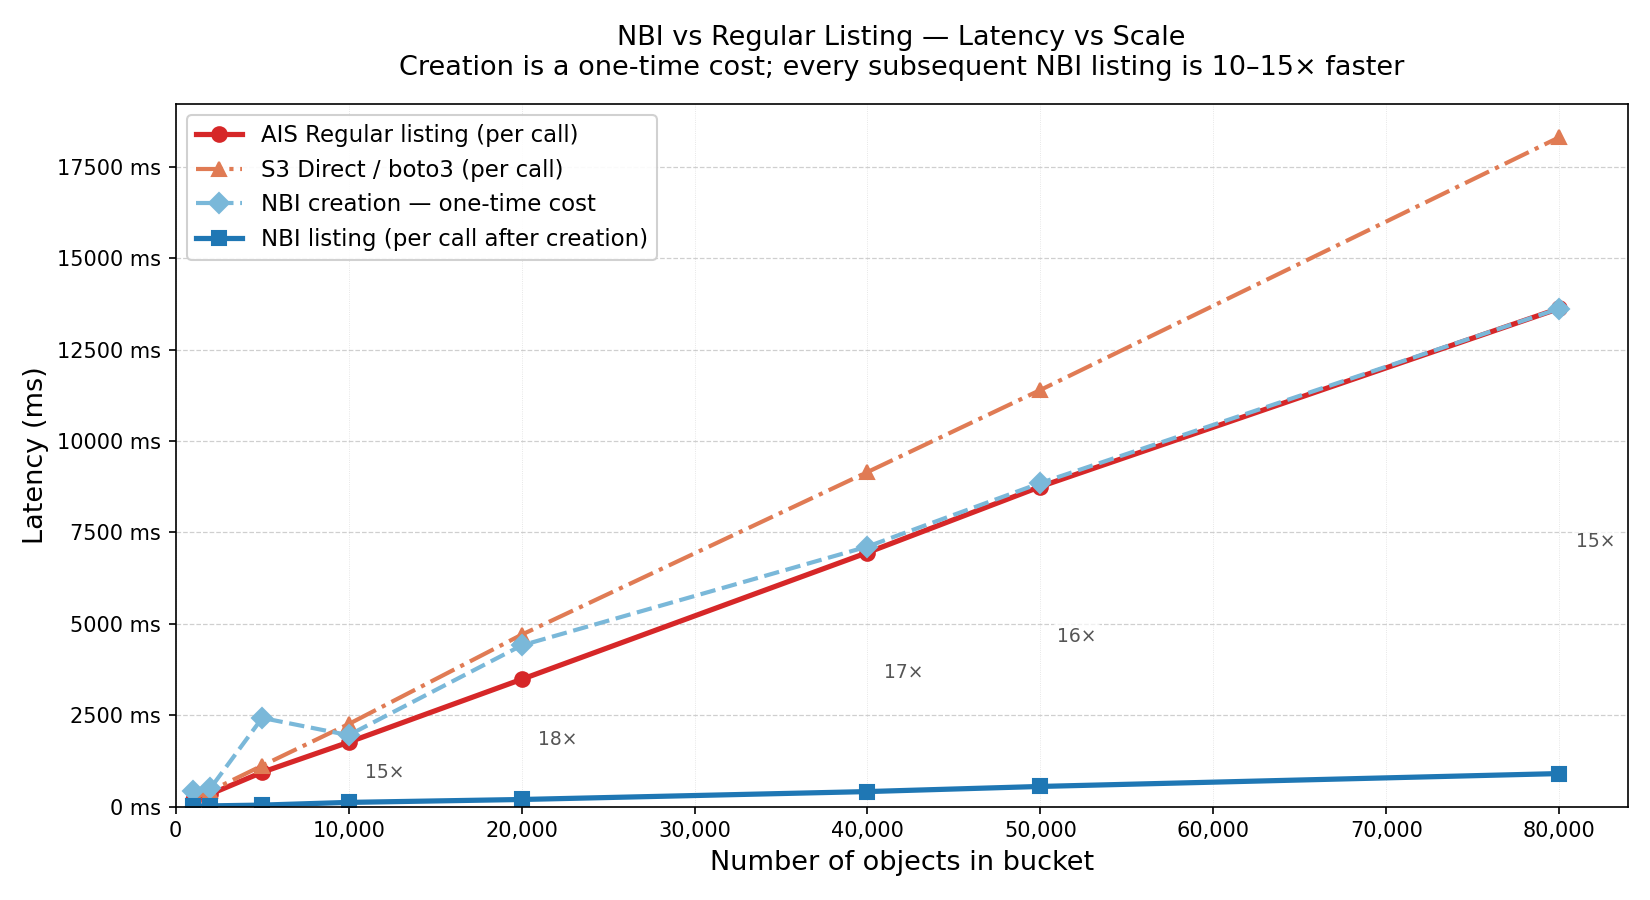
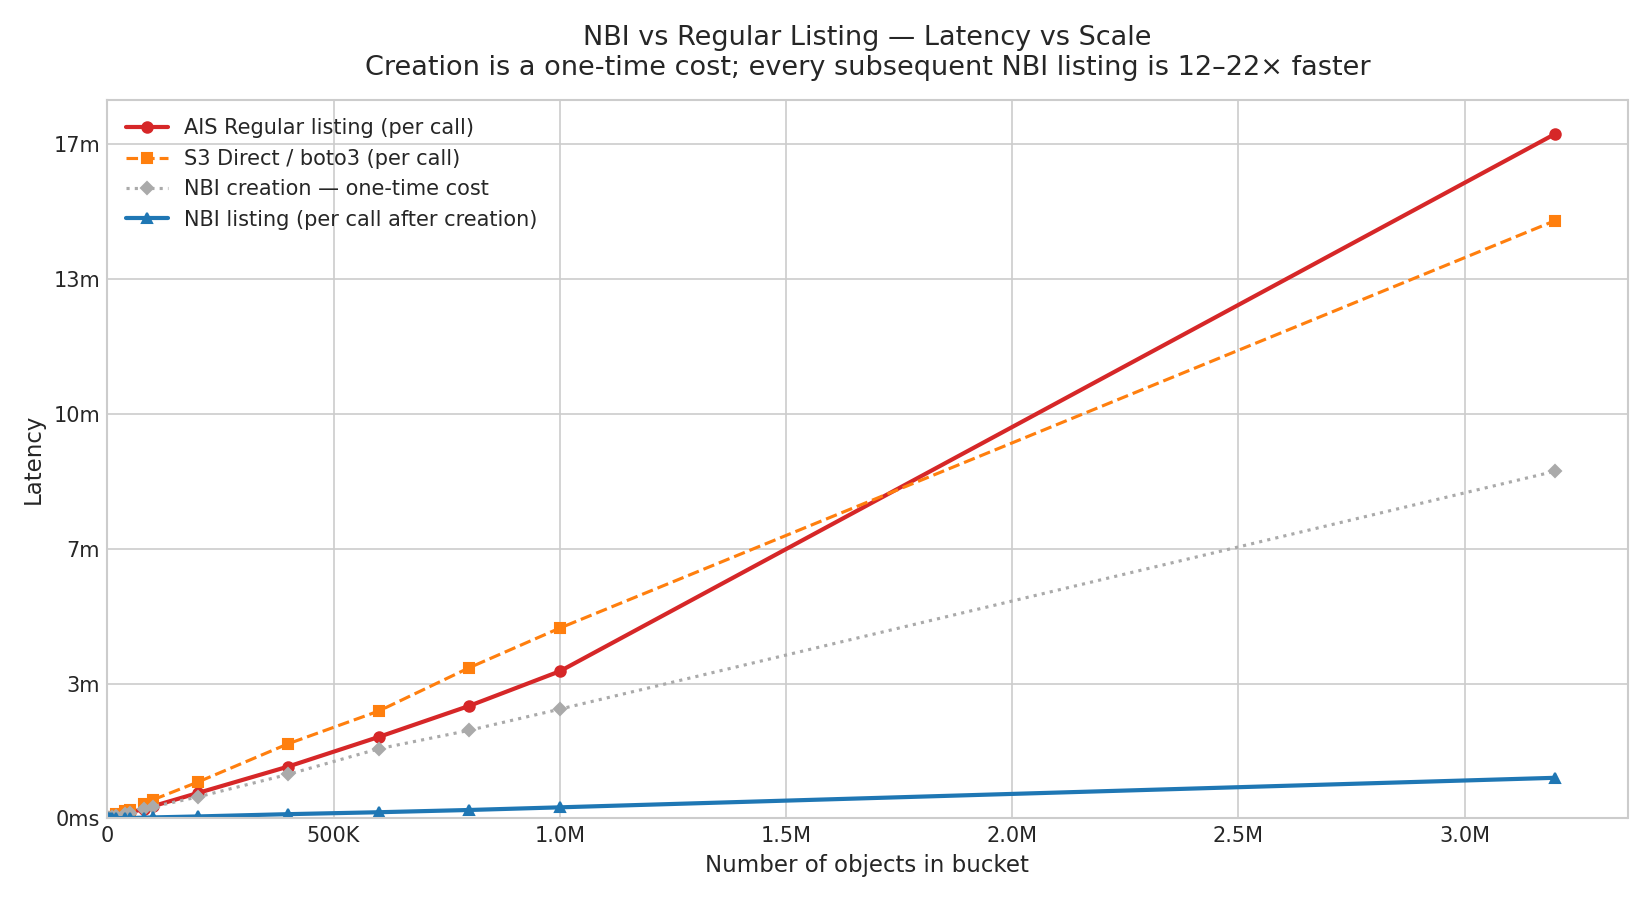
blog: native bucket inventory blog

diff --git a/docs/_posts/2026-04-06-native-bucket-inventory.md b/docs/_posts/2026-04-06-native-bucket-inventory.md
@@ -1,0 +1,154 @@
+---
+layout: post
+title: "Native Bucket Inventory: Up to 17x Faster Remote Bucket Listing"
+date: Apr 6, 2026
+author: Tony Chen, Abhishek Gaikwad
+categories: aistore nbi benchmark optimization
+---
+
+AIStore 4.3 introduces Native Bucket Inventory (NBI), a new mechanism for accelerating large remote-bucket listings by turning a repeatedly expensive operation into a local, reusable metadata path. Instead of traversing a remote bucket on every `ais ls`, AIS can precompute the bucket inventory once, persist it as compact binary chunks in the cluster, and answer subsequent listing requests directly from that local snapshot.
+
+In our benchmarks, NBI delivers roughly **15x to 17x speedup** for repeated listing of an `s3://` bucket with 3.2 million objects, highlighting how effective a precomputed local snapshot can be for large datasets. In this post, we walk through the design of NBI, the internal create and list workflows, the benchmark results, and how to use it from the AIStore Python SDK and CLI.
+
+### Table of Contents
+
+- [Motivation](#motivation)
+- [Workflow](#workflow)
+- [Usage](#usage)
+- [Benchmark](#benchmark)
+- [Current Limitations](#current-limitations)
+- [When to Use NBI (and When Not To)](#when-to-use-nbi-and-when-not-to)
+- [Conclusion](#conclusion)
+- [References](#references)
+
+## Motivation
+
+Remote bucket listing becomes expensive when the bucket is both large and repeatedly accessed. A full listing requires AIS to retrieve and assemble a large volume of object metadata from the backend before it can return a complete result to the client. When that bucket is relatively stable and listed again and again, the system ends up redoing essentially the same work each time, even though the contents change very little between requests.
+
+The core issue is that the object metadata returned by listing is often reusable, but the system keeps rebuilding it from scratch. The larger the bucket, the more bandwidth, latency, and backend API work AIS must spend to reconstruct information it has effectively already seen.
+
+NBI addresses that mismatch by treating the bucket listing results as cacheable metadata. Instead of rebuilding the full listing on every request, AIS captures it once, stores it locally in a compact form, and reuses that snapshot for subsequent listings.
+
+> While our benchmarks use S3, NBI is backend-agnostic and works identically with any remote backend — AWS S3, Google Cloud Storage, Azure Blob, OCI Object Storage, and remote AIS clusters.
+
+## Workflow
+
+NBI runs in two phases: **creation** and **listing**.
+
+### Creation
+
+When the user requests inventory creation, the [proxy](https://github.com/NVIDIA/aistore/blob/main/docs/terminology.md#proxy) distributes the job to all [targets](https://github.com/NVIDIA/aistore/blob/main/docs/terminology.md#target). Each target independently walks the [remote backend](https://github.com/NVIDIA/aistore/blob/main/docs/providers.md), but only keeps the entries whose names hash to that target. The entries are sorted, grouped into chunks of ~20K names each, encoded as compressed `msgpack`, and written to the AIS system bucket `ais://.sys-inventory`. The resulting object path follows the pattern `{provider}/@#/{bucket}/inv-{uuid}`.
+
+
+### Listing
+
+When a list request carries the inventory flag, the proxy broadcasts to all targets instead of sending the request to the remote backend. Each target reads its local inventory chunks, binary-searches for the continuation token, and returns a page of entries. The proxy merges per-target pages to assemble a globally sorted result. No S3 calls are made.
+
+## Usage
+
+### Python SDK
+
+```python
+from aistore import Client
+
+client = Client("http://ais-endpoint:51080")
+bck = client.bucket("my-bucket", provider="s3")
+
+# Create the inventory (one time)
+job_id = bck.create_inventory(name="trainset-v1", prefix="images/")
+client.job(job_id).wait()
+
+# List via inventory — no S3 calls made
+page = bck.list_objects(inventory_name="trainset-v1", prefix="images/train/")
+for entry in page.entries:
+    print(entry.name)
+
+# Clean up when no longer needed
+bck.destroy_inventory(name="trainset-v1")
+```
+
+### CLI
+
+```console
+# Create inventory
+$ ais nbi create s3://my-bucket
+
+# Monitor creation
+$ ais show job create-inventory
+
+# Show inventory metadata
+$ ais nbi show s3://my-bucket
+
+# List via inventory
+$ ais ls s3://my-bucket --inventory
+$ ais ls s3://my-bucket --inventory --prefix images/train/
+
+# Destroy inventory
+$ ais nbi rm s3://my-bucket
+```
+
+## Benchmark
+
+We measured listing latency across 15 scale points from 1K to 3.2M objects in an `s3://` bucket, with 3 runs per point. The chart below shows p50 latency for AIS regular listing, S3 direct (boto3), NBI creation (one-time), and NBI listing.
+
+![NBI benchmark result](/assets/nbi/nbi_scale.png)
+
+```
+==========================================================================================================================
+NBI latency-vs-scale  (3 runs each)
+==========================================================================================================================
+Objects     Creation    Regular          NBI          S3 Direct    Speedup
+                         p50      sd     p50     sd    p50      sd   (R/N)
+--------------------------------------------------------------------------
+   1K          449ms    405ms   144ms    21ms    2ms   676ms    2.9s  19.0x
+   2K          616ms    596ms    21ms    34ms    4ms   480ms   251ms  17.6x
+   5K          811ms     1.2s   161ms    51ms   33ms    1.4s   186ms  22.4x
+  10K           1.8s     1.9s   177ms   147ms   35ms    2.7s   165ms  12.6x
+  20K           3.5s     3.4s   106ms   248ms   20ms    6.2s   154ms  13.8x
+  40K           7.2s     7.2s   358ms   550ms   95ms   10.8s   278ms  13.2x
+  50K           8.6s     8.8s   689ms   631ms   30ms   12.9s   242ms  13.9x
+  80K          13.9s    13.8s    1.1s    1.0s   22ms   21.4s   995ms  13.2x
+ 100K          17.0s    17.9s   387ms    1.4s   45ms   27.3s   822ms  12.6x
+ 200K          31.8s    37.6s    2.1s    2.9s  225ms   53.8s    6.6s  13.1x
+ 400K         1m  5s   1m 16s   364ms    6.3s  698ms  1m 50s    4.8s  12.3x
+ 600K         1m 43s    2m 0s    1.8s    9.1s  276ms  2m 39s    3.5s  13.3x
+ 800K         2m 10s   2m 46s    2.2s   12.5s  939ms  3m 43s   901ms  13.4x
+   1M         2m 42s   3m 38s   920ms   16.4s  213ms  4m 42s   10.7s  13.3x
+ 3.2M         8m 34s  16m 55s    4.3s   1m 0s   2.8s 14m 46s   23.1s  16.9x
+==========================================================================================================================
+```
+
+NBI listing latency still increases with object count because it scans locally stored inventory data, but its absolute latency remains far lower than regular listing. On the chart, the NBI curve appears almost flat compared to a regular AIS list or a direct S3 list. The speedup remains consistent across the entire 1K-3.2M range, reaching up to **16.9x** at 3.2M objects.
+
+## Current Limitations
+
+NBI is **experimental** in AIStore 4.3, and the current implementation keeps inventory management intentionally simple. At the moment, AIStore supports only one inventory per bucket, so concurrent inventories for the same bucket are not supported. Inventories are created manually via CLI or SDK and remain static until they are recreated or removed; if an inventory already exists and you want a new one, you can recreate it with `--force`, or simply remove it first with `ais nbi rm` and then create it again.
+
+The current creation path is also optimized for correctness and simplicity rather than minimum backend work. During inventory creation, all targets walk the remote bucket in parallel and each keeps only its own portion of the results. Automatic refresh and more efficient creation strategies are planned for future releases.
+
+> **Note:** NBI replaces the older S3-specific `--s3-inventory` path, which depended on provider-generated CSV/Parquet inventory files. The new implementation is AIS-native, backend-agnostic, and does not require external tooling.
+
+## When to Use NBI (and When Not To)
+
+**Good fit:**
+
+- Large remote buckets (100K+ objects) that are listed repeatedly
+- Training pipelines that enumerate a dataset before each epoch
+- Data audits or dashboards that scan bucket contents periodically
+- Any workflow where the bucket is relatively stable between listings
+
+**Not a good fit:**
+
+- Small buckets — creation cost exceeds the listing savings
+- Rapidly changing buckets — the snapshot goes stale quickly, and frequent recreation negates the benefit
+- `ais://` buckets — metadata is already local (to each _listing_ target), so NBI provides no speedup
+- One-off listings — if you only list a bucket once, the creation overhead is pure cost
+
+## Conclusion
+
+NBI delivers **15x better listing performance** for large remote buckets, with measured speedups reaching **14-22x** across the range we tested. That makes it a practical solution for repeated listing of multi-million-object `s3://`, `gs://`, and other remote buckets where rebuilding the full result from the backend on every request is too slow and too expensive.
+
+## References
+
+- [NBI documentation](https://github.com/NVIDIA/aistore/blob/main/docs/nbi.md)
+- [NBI benchmark script](https://github.com/NVIDIA/aistore/blob/main/python/tests/perf/nbi/bench.py)
